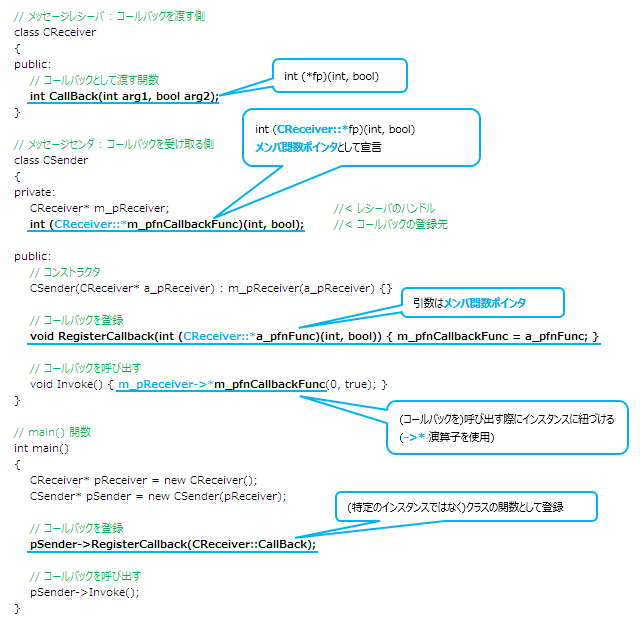
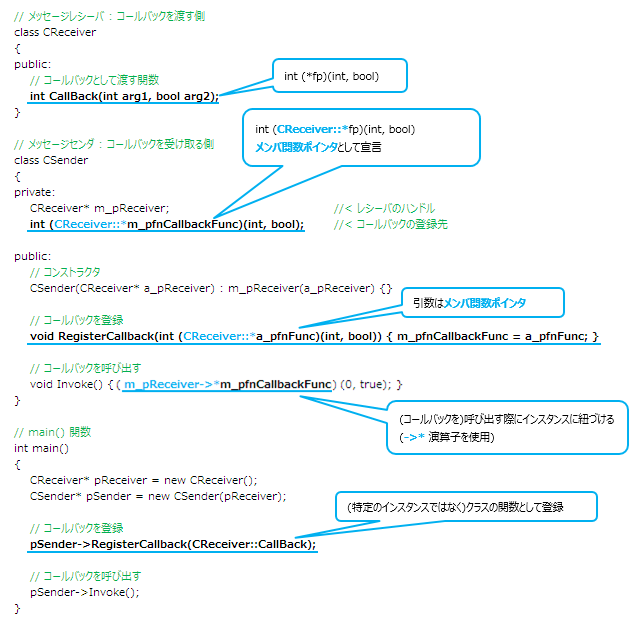
細部修正

Changed region(s): [[0.1562, 0.609, 0.625, 0.6394]]

diff --git a/TIPS/C・C++/[C++]C++におけるクラスと構造体の違い.html b/TIPS/C・C++/[C++]C++におけるクラスと構造体の違い.html
@@ -34,8 +34,6 @@ body
 <h5>出典 :</h5>
 <a href="https://qiita.com/pink_bangbi/items/e25302df7f4ba7fa0db4">C++ における class と struct の違い - Qiita</a><br>
 
-
-
 <!-- 目次 -->
 <h5>目次 :</h5>
 <div id="toc"></div>
@@ -44,89 +42,98 @@ body
 
 <!-- 本文ここから -->
 
-
 <h2>クラス(class)と構造体(struct)の差異</h2>
 C++がCのスーパーセット(現在は厳密には異なる)であることから、C++における構造体がCと同様に「変数のみを定義できる」という誤解も多いが、<br>実際は <b>構造体にもメンバ関数(メソッド)を定義できる</b> 。<br>つまりC++においては、 <b>デフォルトのアクセス指定を除き、クラスと構造体の実装は変わらない</b> 。<br>
 <ul>
 <li>クラス : デフォルトのアクセス指定が <b>private</b></li>
 <li>構造体 : デフォルトのアクセス指定が <b>public</b></li>
 </ul>
+
 <h2>CとC++での構造体の差異</h2>
-C++においては、前述のように構造体とクラスの実装は変わらず、構造体の定義もクラスと同様に書ける。<br>
-即ち、 <b>構造体定義における「タグ名」が「正式な型名」となるため、型定義に typedef を必要としない</b> 。<br>
+反面、CとC++では構造体の実装に微妙な差異がある。
 
 <h3>C</h3>
+構造体定義の際には struct キーワードに続いて「タグ」を指定できる(型定義を同時に行う場合は省略可能)。<br>
+「型名」を定義する際は typedef が必要。<br>
 
 <h4>構造体定義#1</h4>
 構造体定義と型定義を分離する場合。<br>
 <p class="code">
-<kwd>struct</kwd> tagSt_Hoge1  <cmt>//&lt; tagSt_Hoge1 はタグ名であり、型名ではない</cmt>
+<kwd>struct</kwd> tagSt_Hoge1                    <cmt>//&lt; tagSt_Hoge1 はタグであり、型名ではない</cmt>
 {
     U1 m_u1_Val;
 };
-<kwd>typedef</kwd> <kwd>struct</kwd> tagSt_Hoge1 St_Hoge1;  <cmt>//&lt; タグ名から型名を定義</cmt>
+<kwd>typedef</kwd> <kwd>struct</kwd> tagSt_Hoge1 St_Hoge1;  <cmt>//&lt; タグから型名を定義</cmt>
 </p>
 
 <h4>構造体定義#2</h4>
 構造体定義と型定義を同時に行う場合。<br>
 <p class="code">
-<kwd>typedef</kwd> <kwd>struct</kwd> tagSt_Hoge2  <cmt>//&lt; タグ tagSt_Hoge2 は省略可能</cmt>
+<kwd>typedef</kwd> <kwd>struct</kwd> tagSt_Hoge2             <cmt>//&lt; タグ tagSt_Hoge2 は省略可能</cmt>
 {
     U1 m_u1_Val;
 } St_Hoge2;
 </p>
+
 <h4>変数宣言</h4>
 <p class="code">
-<cmt>// タグ名を用いる場合</cmt>
+<cmt>// タグを用いる場合 (struct キーワードが必要)</cmt>
 <kwd>struct</kwd> tagSt_Hoge1 g_st_Hoge1_1;
 <kwd>struct</kwd> tagSt_Hoge2 g_st_Hoge2_1;
 <cmt>// (typedef で定義した)型名を用いる場合</cmt>
 St_Hoge1 g_st_Hoge1_2;
 St_Hoge2 g_st_Hoge2_2;
 </p>
+
 <h3>C++</h3>
+C++においては、前述のように構造体とクラスの実装は変わらず、構造体の定義もクラス定義と同様に書ける。<br>
+即ち、<b>「構造体定義」は「構造体型定義」を兼ねる(「タグ」が「正式な型名」となる)ため、型定義に typedef を必要としない</b> 。<br>
 
 <h4>クラス定義</h4>
 <p class="code">
-<kwd>class</kwd> C_Hoge0
+<kwd>class</kwd> C_Hoge0                          <cmt>//&lt; クラス型 C_Hoge0</cmt>
 {
-    U1 m_u1_Val;    <cmt>//&lt; デフォルトは private</cmt>
+    U1 m_u1_Val;                       <cmt>//&lt; デフォルトは private</cmt>
 <kwd>public</kwd>:
     C_Hoge0() {}
     GetVal() <kwd>const</kwd> { <kwd>return</kwd> m_u1_Val; }
 };
 </p>
+
 <h4>構造体定義#1</h4>
 定義はアクセス指定を除き、class と同様。<br>
 <p class="code">
-<kwd>struct</kwd> St_Hoge1
+<kwd>struct</kwd> St_Hoge1                          <cmt>//&lt; St_Hoge1 は正規の構造体型名(タグではない)</cmt>
 {
-    St_Hoge1() {}                        <cmt>//&lt;デフォルトは public</cmt>
+    St_Hoge1() {}                        <cmt>//&lt; デフォルトは public</cmt>
     GetVal() <kwd>const</kwd> { <kwd>return</kwd> m_u1_Val; }  <cmt>//&lt; ↑</cmt>
 <kwd>private</kwd>:
     U1 m_u1_Val;
 };
 </p>
+
 <h4>構造体定義#2</h4>
 C同様、定義した構造体型に typedef (または using )で別名を充てることもできるが、単に冗長であるだけでなく、二重管理となり混乱を生じる可能性がある。<br>
 class も同様。<br>
 <p class="code">
-<kwd>typedef</kwd> <kwd>struct</kwd> tagSt_Hoge2
+<kwd>typedef</kwd> <kwd>struct</kwd> tagSt_Hoge2               <cmt>//&lt; tagSt_Hoge2 は正規の構造体型名(タグではない)</cmt>
 {
-    St_Hoge2() {}                        <cmt>//&lt;デフォルトは public</cmt>
+    St_Hoge2() {}                        <cmt>//&lt; デフォルトは public</cmt>
     GetVal() <kwd>const</kwd> { <kwd>return</kwd> m_u1_Val; }  <cmt>//&lt; ↑</cmt>
 <kwd>private</kwd>:
     U1 m_u1_Val;
-} St_Hoge2;
+} St_Hoge2;                              <cmt>//&lt; tagSt_Hoge2 の別名</cmt>
 </p>
+
 <h4>変数宣言</h4>
 St_Hoge1 、tagSt_Hoge2 はタグ名ではなく正規の型名であるため、struct キーワードは不要。( class キーワードも同様に不要)<br>
 <p class="code">
-C_Hoge0 g_cl_Hoge0;
-St_Hoge1 g_st_Hoge1;
-tagSt_Hoge2 g_st_Hoge2_1;
-St_Hoge2 g_st_Hoge2_2;
+C_Hoge0 g_cl_Hoge0;            <cmt>//&lt; クラス変数宣言</cmt>
+St_Hoge1 g_st_Hoge1;           <cmt>//&lt; 構造体変数宣言#1</cmt>
+tagSt_Hoge2 g_st_Hoge2_1;      <cmt>//&lt; 構造体変数宣言#2</cmt>
+St_Hoge2 g_st_Hoge2_2;         <cmt>//&lt; (別名を用いた)構造体変数宣言</cmt>
 </p>
+
 <h2>どちらを用いるべきか</h2>
 クラスと構造体では前述したとおり、(デフォルトの)アクセス指定以外の差異は存在しないため、どちらを用いても機能的には問題は無い。<br>
 しかし、<br>
@@ -136,12 +143,14 @@ St_Hoge2 g_st_Hoge2_2;
 </ul>
 という認識が一般的であり、構造体にメソッドを設けることに違和感を覚える人も少なくない。<br>
 このため、メソッドを含む場合はクラスを、変数のみの場合は構造体を用いるのがどうやら自然と言える。<br>
-但しデータと、それを取り扱うメソッドは本来不可分であるため、極力ひとまとめにしてクラス化するのが望ましい。<br>
-(すなわち、構造体を用いる意義は薄く、クラスを積極的に用いるべきである。)
+但し、データとそれを取り扱うメソッドは本来不可分であるため、極力ひとまとめにしてクラス化(カプセル化)するのが望ましい。<br>
+(すなわち構造体を用いる意義自体が薄く、構造体ではなくクラスを用いるべきである。)<br>
 尚、アクセス指定はデフォルトを用いず、明示的に指定するのが良い。<br>
+
 <h2>余談</h2>
-構造体と同様、共用体にもコンストラクタ・デストラクタを定義できる。<br>
-C#においては、クラスはデフォルトで参照渡し、構造体は値渡しとなる。詳細は割愛。<br>
+C++では構造体と同様、共用体にもコンストラクタ・デストラクタを定義できる。<br>
+C#においてはC++と異なり、クラスはデフォルトで参照渡し、構造体は値渡しとなる。詳細は割愛。<br>
+
 </body>
 </html>
 

diff --git a/TIPS/C・C++/[C++]メンバ関数ポインタ.html b/TIPS/C・C++/[C++]メンバ関数ポインタ.html
@@ -46,28 +46,29 @@ body
 
 <!-- 本文ここから -->
 
-
 <h2>まえがき</h2>
-クラスにおける、静的( static 修飾)でないメンバ関数は暗黙の引数 this をとる都合上、<br>
-C互換の通常関数(非メンバ関数および静的メンバ関数)とは(見かけ上)関数の型が等しくても呼び出しに互換性が無い。<br>
+クラスの非静的( static 修飾されていない)メンバ関数は暗黙の引数 this をとる都合上、<br>
+C互換の関数(非メンバ関数および静的メンバ関数)とは、関数の型が見かけ上等しくても、呼び出しに互換性が無い。<br>
 ⇒ 非静的メンバ関数をクラス外から関数ポインタ経由で呼び出す場合は、 <b>メンバ関数ポインタを</b> 用いるとともに、<br>
 this に相当するクラスインスタンスのアドレスを解決する必要がある。<br>
 <img src="_Img/CPP/memberfunc_ptr/memberfunctionpointer_01.png" alt="画像"><br>
 
 <h2>ケース1 : 既知のクラスのメンバとして呼び出す</h2>
 上記「まえがき」の修正。<br>
-コールバックの登録先をメンバ関数ポインタとするとともに、 <b>「クラスの関数として」</b> 登録する。コールバックを呼び出す際にインスタンスに紐づける。<br>
+コールバックの登録先( m_pfnCallbackFunc )を<b>「( CReceiver クラスの)メンバ関数ポインタ」</b>とするとともに、<br>
+コールバックを<b>「( CReceiver )クラスの関数として」</b>登録し、<br>
+コールバックを<b>「呼び出す際に」</b>特定のインスタンスに紐づける。<br>
 <img src="_Img/CPP/memberfunc_ptr/memberfunctionpointer_02.png" alt="画像"><br>
 
 <h2>ケース2 : 静的関数化・クラス情報を隠蔽</h2>
-コールバックを静的関数(クラスメソッド)とすることで、通常の関数ポインタに代入可能となる。<br>
-静的関数からはそのままでは( this が無いため)非静的メンバにアクセスできないので、this に相当するインスタンスポインタを渡す。<br>
-ここで、CSender は CReceiver について知る必要が無いため、より汎用的に実装できる。<br>
+コールバックを<b>静的関数(クラスメソッド)とすることで、通常の関数ポインタに代入可能となる(クラス関数ポインタを必要としない)</b>。<br>
+静的関数からはクラスの非静的メンバにアクセスできない( this が無いため)ので、this に相当するインスタンスポインタを渡す。<br>
+ケース1と異なり、CSender は CReceiver について知る必要が無いため、より汎用的に実装できる。<br>
 <img src="_Img/CPP/memberfunc_ptr/memberfunctionpointer_03.png" alt="画像"><br>
 
 <h2>注意が必要な点</h2>
-<b class="red">::*</b>、<b class="red">.*</b>、<b class="red">-&gt;*</b>の各演算子は関数呼び出しの<b class="dgreen">()</b>よりも優先順位が低いので、関数名全体を<b class="blue">()</b>で囲む必要がある。<br>
-誤 : mReceiver <b class="red">-&gt;*</b>CallbackFunc<b class="dgreen">(</b>0, true<b class="dgreen">)</b>;<br>
-正 : <b class="blue">(</b>mReceiver<b class="red">-&gt;*</b>CallbackFunc<b class="blue">)</b><b class="dgreen">(</b>0, true<b class="dgreen">)</b>;<br>
+<b class="red">::*</b>、<b class="red">.*</b>、<b class="red">-&gt;*</b>の各演算子は関数呼び出しの<b class="dgreen">()</b>よりも優先順位が低いので、関数名全体を<b class="blue">()</b>で囲まなければ正常に呼び出されない。<br>
+誤 : m_pReceiver <b class="red">-&gt;*</b>CallbackFunc<b class="dgreen">(</b>0, true<b class="dgreen">)</b>;<br>
+正 : <b class="blue">(</b>m_pReceiver<b class="red">-&gt;*</b>CallbackFunc<b class="blue">)</b><b class="dgreen">(</b>0, true<b class="dgreen">)</b>;<br>
 </body>
 </html>

diff --git a/TIPS/C・C++/[C++]コンストラクタ初期化子(初期化リスト).html b/TIPS/C・C++/[C++]コンストラクタ初期化子(初期化リスト).html
@@ -69,7 +69,7 @@ body
 
 <h3>メンバ変数がクラスの場合</h3>
 <p class="code">
-<cmt>// 引数付きコンストラクタをもつHogeクラス</cmt>
+<cmt>// 引数付きコンストラクタをもつCHogeクラス</cmt>
 <kwd>class</kwd> CHoge
 {
 <kwd>public</kwd>:
@@ -77,21 +77,21 @@ body
     CHoge(<kwd>int</kwd> x) { (略) }
 }
 
-<cmt>// HogeクラスをメンバにもつFugaクラス</cmt>
+<cmt>// CHogeクラスをメンバにもつCFugaクラス</cmt>
 <kwd>class</kwd> CFuga
 {
 <kwd>private</kwd>:
-    CHoge m_cl_Hoge;  <cmt>//&lt; Hogeクラスのインスタンス</cmt>
+    CHoge m_cl_Hoge;  <cmt>//&lt; CHogeクラスのインスタンス</cmt>
 <kwd>public</kwd>:
     CFuga(<kwd>int</kwd> x)
     {
-        m_cl_Hoge(x);  <cmt>//&lt; Hogeクラスのインスタンスを初期化しようとしているが…</cmt>
+        m_cl_Hoge(x);  <cmt>//&lt; CHogeクラスのインスタンスを初期化しようとしているが…</cmt>
     }
 }
 </p>
 
 <b>上記のコードはエラーとなる</b> 。<br>
-前節で説明した通り、CFuga クラスのインスタンス生成時にメンバ変数 m_cl_Hoge が <b>「デフォルトコンストラクタ(引数なし)」で初期化される</b> が、 <br>
+前節で説明した通り、CFuga クラスのインスタンス生成時にはメンバ変数 m_cl_Hoge が <b>「デフォルトコンストラクタ(引数なしのコンストラクタ)」で初期化される</b> が、 <br>
 <b>CHoge クラスには「引数なしのコンストラクタ」が存在しない</b> ためである。 <br>
 このように、 <b>メンバ変数がクラス(または構造体)インスタンスかつ、デフォルトコンストラクタが存在しない場合は、初期化リストを用いる以外に初期化の手段は無い</b> 。<br>
 <br>

diff --git a/TIPS/C・C++/[C++]関数オーバーロードとデフォルト引数.html b/TIPS/C・C++/[C++]関数オーバーロードとデフォルト引数.html
@@ -58,7 +58,7 @@ body
 {
     <cmt>// どちらの myabs() を呼ぶかは、コンパイラが引数の型から自動判別してくれる</cmt>
     cout &lt;&lt; <ltr>"-10の絶対値"</ltr> &lt;&lt; myabs(-<ltr>10</ltr>) &lt;&lt; <ltr>"\n"</ltr>;      <cmt>//&lt; int   引数の myabs()</cmt>
-    cout &lt;&lt; <ltr>"9.3の絶対値"</ltr> &lt;&lt; myabs(<ltr>9.3</ltr>)  &lt;&lt; <ltr>"\n"</ltr>;      <cmt>//&lt; float 引数の myabs()</cmt>
+    cout &lt;&lt; <ltr>"9.3の絶対値"</ltr> &lt;&lt; myabs(<ltr>9.3</ltr>) &lt;&lt; <ltr>"\n"</ltr>;      <cmt>//&lt; float 引数の myabs()</cmt>
 }
 </p>
 Cではオーバーロードがサポートされていないため、同様の機能を持つ関数を定義する場合に別名を割り当てる必要があった。<br>
